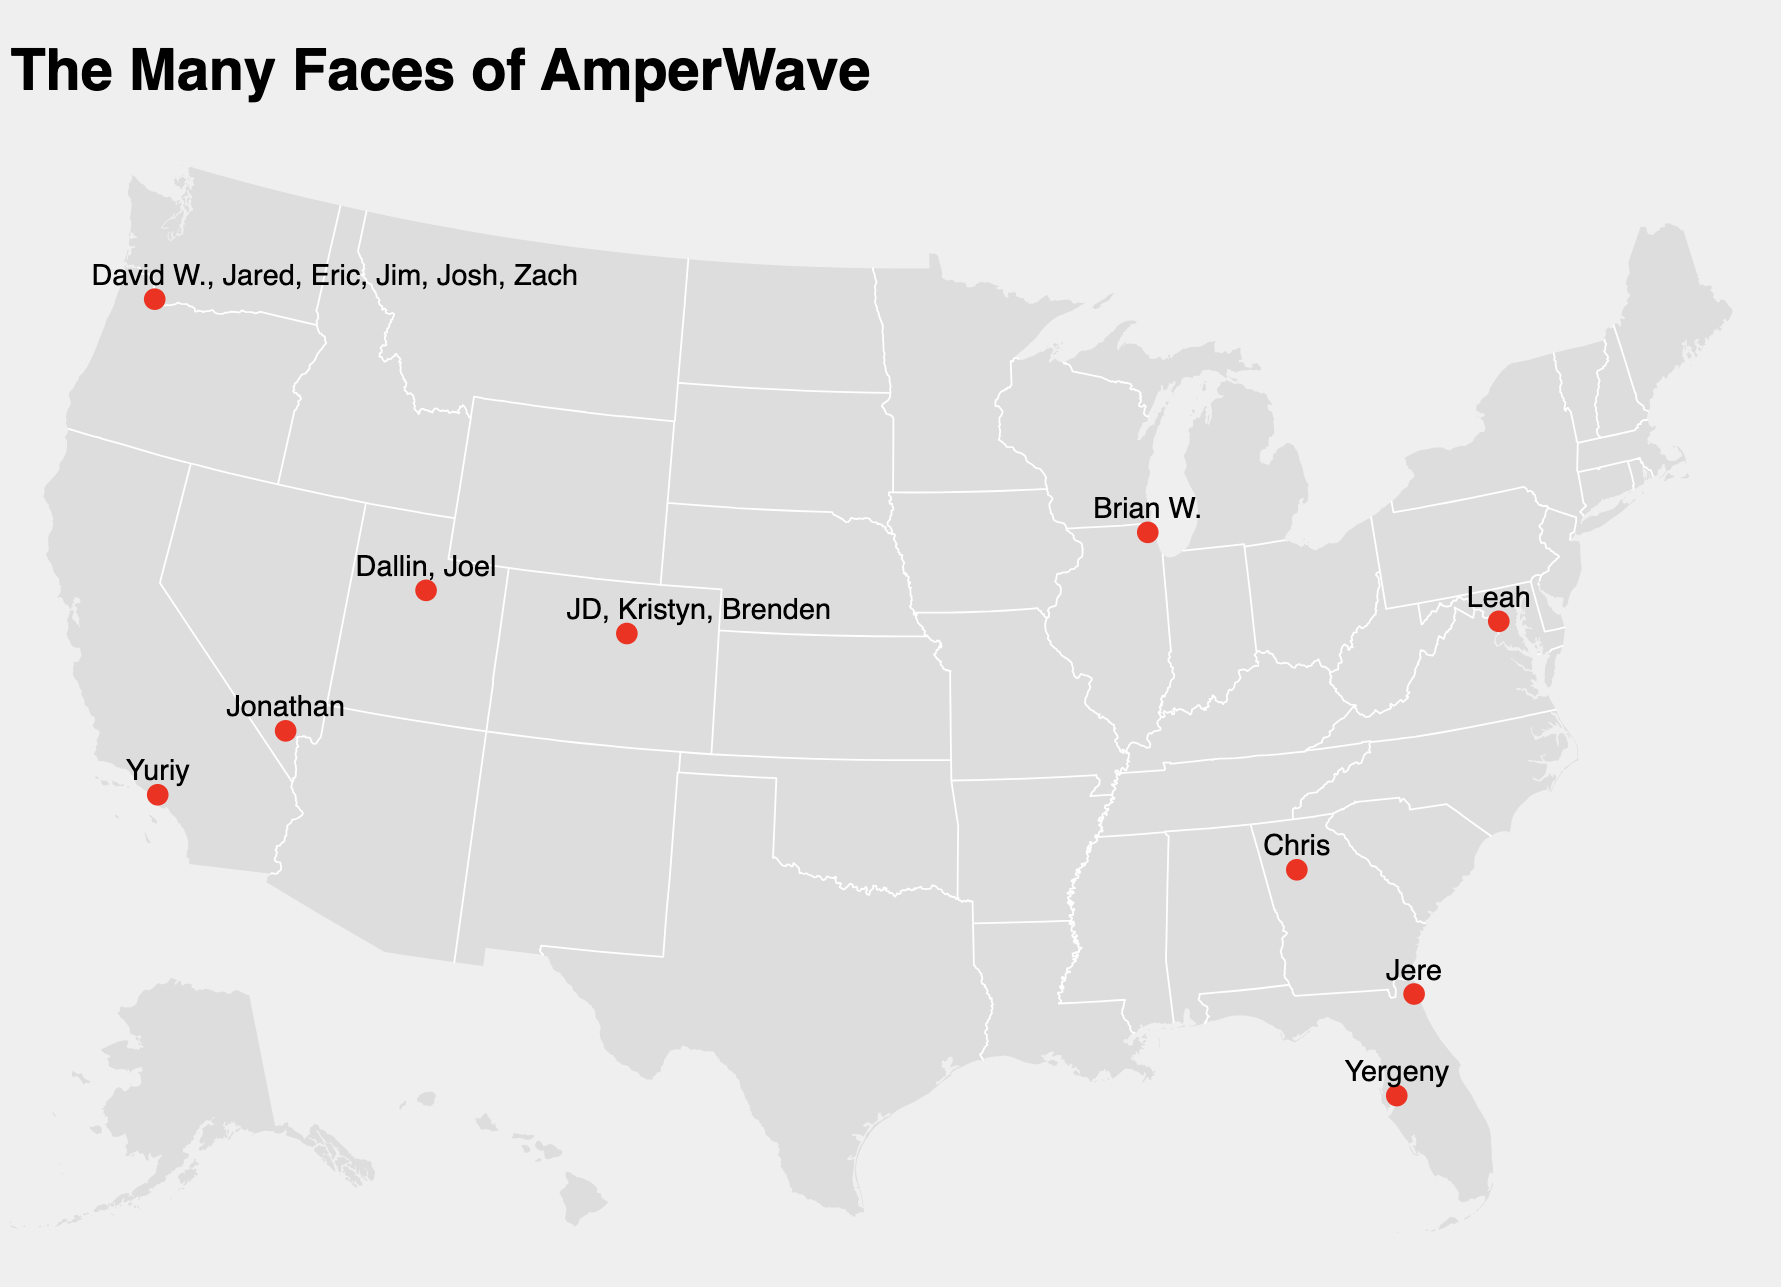
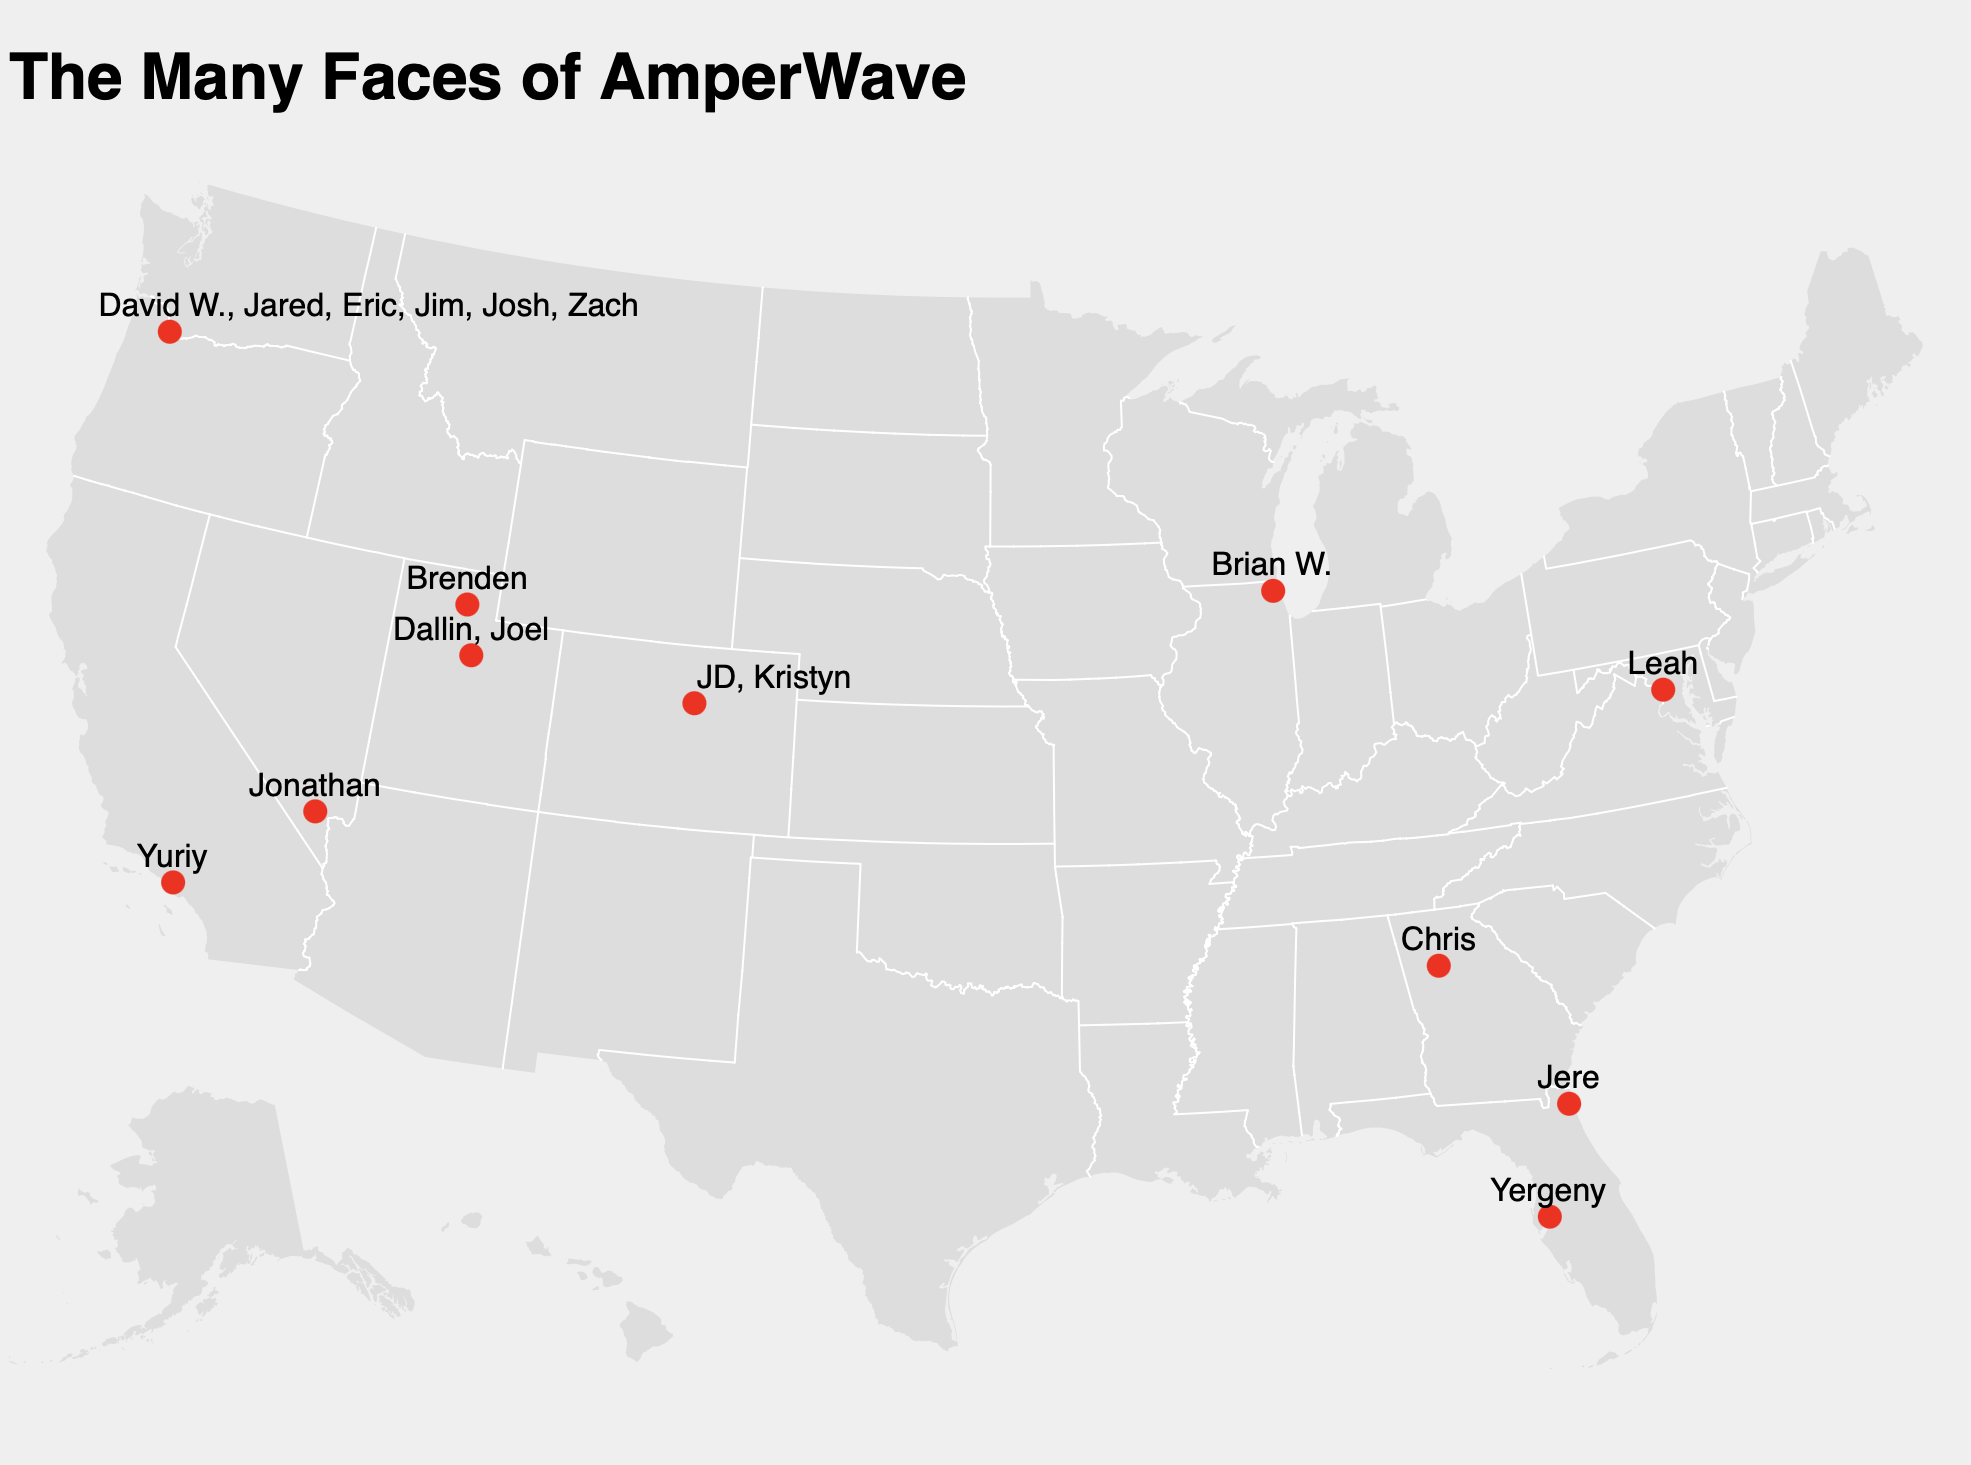
fix location

diff --git a/map.js b/map.js
@@ -19,7 +19,8 @@ function map(us) {
         {"long": -84.39, "lat": 33.76, "city": "Atlanta", "names": "Chris"},
         {"long": -118.49, "lat": 34.00, "city": "Los Angeles", "names": "Yuriy"},
         {"long": -122.66, "lat": 45.63, "xAdjust": 100, "city": "Vancouver", "names": "David W., Jared, Eric, Jim, Josh, Zach"},
-        {"long": -105.00, "lat": 39.75, "xAdjust": 40, "city": "Denver", "names": "JD, Kristyn, Brenden"},
+        {"long": -105.00, "lat": 39.75, "xAdjust": 40, "city": "Denver", "names": "JD, Kristyn"},
+        {"long": -111.96, "lat": 41.24, "city": "Salt Lake area", "names": "Brenden"},
         {"long": -82.41, "lat": 27.97, "city": "Tampa", "names": "Yergeny"},
         {"long": -81.51, "lat": 30.37, "city": "Jacksonville", "names": "Jere"},
         {"long": -111.60, "lat": 40.16, "city": "Provo", "names": "Dallin, Joel"},
